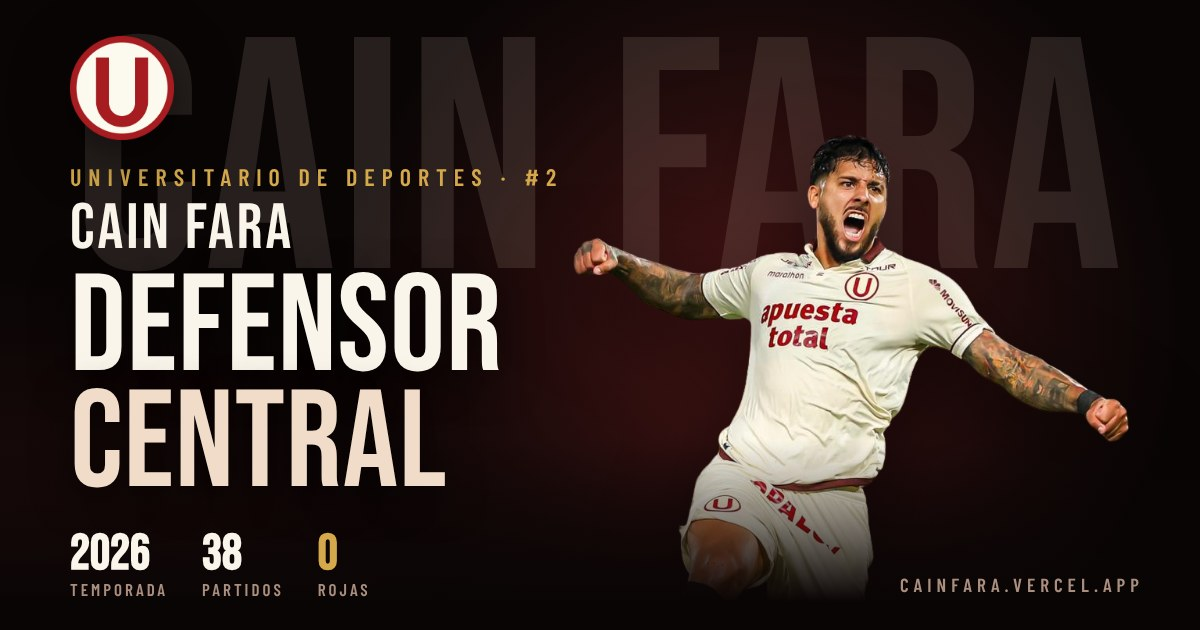
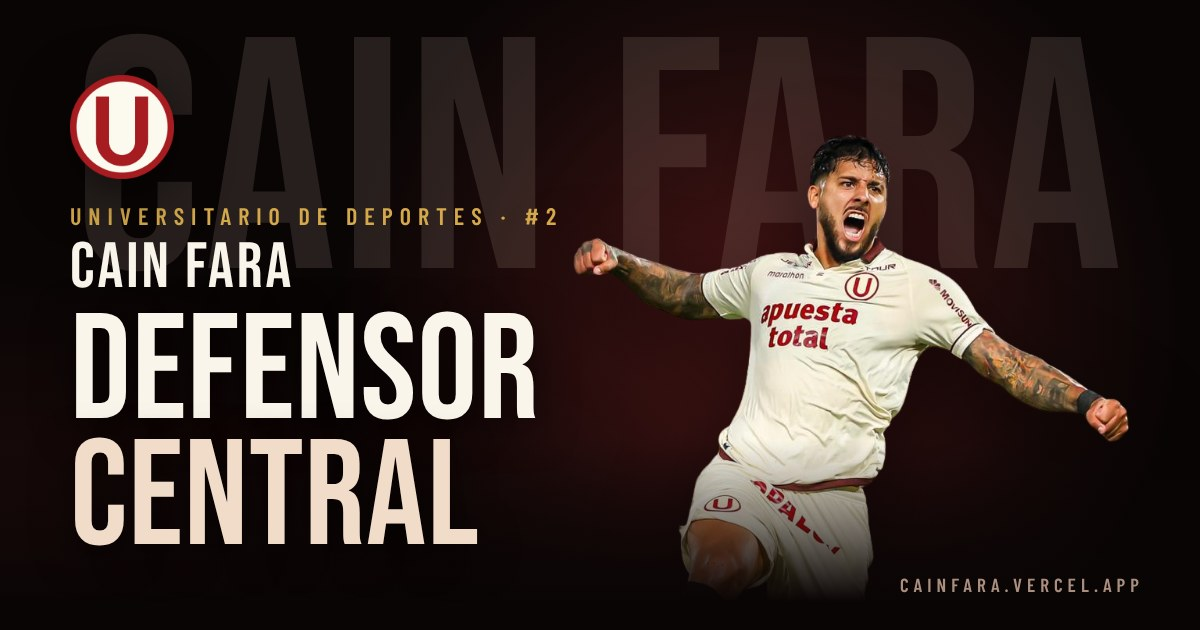
OG: quitar la fila de datos de temporada
Claude-Session: https://claude.ai/code/session_01SrwUJSLYSaVVR93iSDoMPj

diff --git a/index.html b/index.html
@@ -35,7 +35,7 @@
     <meta property="og:image:type" content="image/jpeg" />
     <meta property="og:image:width" content="1200" />
     <meta property="og:image:height" content="630" />
-    <meta property="og:image:alt" content="Cain Fara, defensor central de Universitario de Deportes, con el escudo del club y sus números de la temporada 2026" />
+    <meta property="og:image:alt" content="Cain Fara, defensor central de Universitario de Deportes con el escudo del club" />
     <meta property="profile:first_name" content="Cain" />
     <meta property="profile:last_name" content="Fara" />
     <meta property="profile:gender" content="male" />
@@ -45,7 +45,7 @@
     <meta name="twitter:title" content="Cain Fara | Defensor Central de Universitario de Deportes" />
     <meta name="twitter:description" content="Temporada 2026: 38 partidos y 0 tarjetas rojas. Estadísticas, highlights y contacto del defensor argentino de Universitario." />
     <meta name="twitter:image" content="https://cainfara.vercel.app/og-image.jpg" />
-    <meta name="twitter:image:alt" content="Cain Fara, defensor central de Universitario de Deportes, con el escudo del club y sus números de la temporada 2026" />
+    <meta name="twitter:image:alt" content="Cain Fara, defensor central de Universitario de Deportes con el escudo del club" />
 
     <!-- Datos estructurados (Schema.org) -->
     <script type="application/ld+json">
